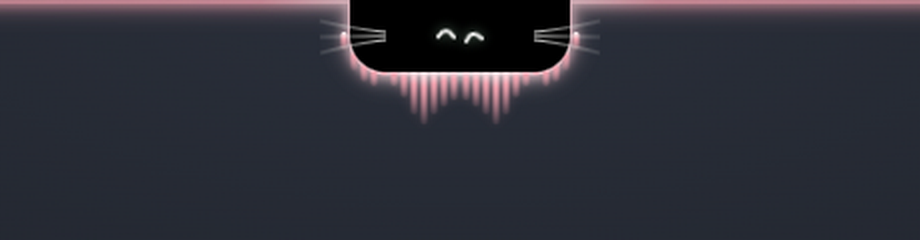
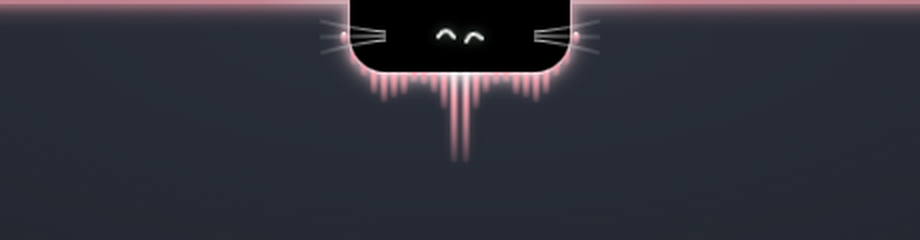
Show the white edge and the mouse voice key in the README

diff --git a/README.md b/README.md
@@ -17,11 +17,11 @@ The cat is drawn after my real cat Nikki.
 | | |
 |---|---|
 | **Claude Code** | Start tasks per project, see live status and steps, answer permission requests (Allow / Always / Deny), questions and plans. Works for Claude Code sessions in your terminal too, through hooks. Plan limits shown as two rings. |
-| **Closed notch** | Only Nikki's eyes. A thin light edge says what is going on: yellow needs you, green works or is done, red error, the cover's colour for music, a white sweep for a new notification. A spectrum from the real audio grows under the notch. |
+| **Closed notch** | Only Nikki's eyes and whiskers, inside a thin white edge. The edge takes a colour when something happens: yellow needs you, green works or is done, red error, the cover's colour for music, a white sweep for a new notification. A spectrum from the real audio grows under the notch. |
 | **Music** | Whatever Windows plays (Spotify, browser, …): cover, controls, volume, and the line being sung (synced lyrics from [LRCLIB](https://lrclib.net), off by default). |
 | **Notifications** | Notifications from other apps, collected in the island. Off by default, kept in memory only. |
 | **Modules** | Calendar with reminders, to-do, notes, Pomodoro timer, file shelf, clipboard history, Discord voice channel. Each one can be switched off. |
-| **Voice** | Hold a key and speak, recognised locally with whisper.cpp. "Hey Nikki, …" sends it to Claude (commands are German). |
+| **Voice** | Hold a key or a mouse button (middle or side) and speak, recognised locally with whisper.cpp. "Hey Nikki, …" sends it to Claude (commands are German). |
 | **Language** | English or German, or whatever Windows uses. Switches at once, no restart. |
 
 ## A closer look
@@ -98,7 +98,7 @@ Nikki is going to become an iOS app as well. The iPhone already has its notch, t
 
 Notch-App für Windows mit Claude-Code-Begleiter: die kleine Katze oben am Bildschirmrand. Sie startet und begleitet Claude-Code-Aufgaben in deinem Projektordner über deine lokal eingeloggte **Claude Code**-CLI, **ohne API-Key**, und bringt dazu Notch-Module wie Kalender, To-do, Notizen und Timer mit.
 
-Zugeklappt zeigt die Insel nur Nikkis Augen. Was los ist, zeigt eine schmale Lichtkante um die Notch: gelb braucht dich, grün arbeitet oder ist fertig, rot ist ein Fehler, bei Musik leuchtet sie in der Farbe des Covers, und eine neue Mitteilung streift einmal weiß darüber. Aufgeklappt gibt es Home („Heute“: Claude, Musik, Wetter, Kalender), den Chat und die Module.
+Zugeklappt zeigt die Insel nur Nikkis Augen und Schnurrhaare, rundherum eine schmale weiße Kante. Passiert etwas, färbt sie sich: gelb braucht dich, grün arbeitet oder ist fertig, rot ist ein Fehler, bei Musik leuchtet sie in der Farbe des Covers, und eine neue Mitteilung streift einmal weiß darüber. Aufgeklappt gibt es Home („Heute“: Claude, Musik, Wetter, Kalender), den Chat und die Module.
 
 - Claude Code starten, mit Live-Status, Schritten und Antworten in der Insel
 - Berechtigungen, Fragen und Pläne beantworten (Erlauben / Immer / Ablehnen), auch für Claude-Code-Sessions im Terminal
@@ -106,7 +106,7 @@ Zugeklappt zeigt die Insel nur Nikkis Augen. Was los ist, zeigt eine schmale Lic
 - Musik mit Cover, Steuerung, Lautstärke und der gerade gesungenen Zeile (Songtexte von lrclib.net, standardmäßig aus)
 - Mitteilungen anderer Apps in der Insel (standardmäßig aus, nur im Speicher)
 - Module: Kalender, To-do, Notizen, Timer, Ablage, Zwischenablage, Discord, einzeln schaltbar
-- Spracheingabe, lokal erkannt. Befehle beginnen mit „Hey Nikki“
+- Spracheingabe, lokal erkannt, per Taste oder Maustaste (Mitte oder Seite). Befehle beginnen mit „Hey Nikki“
 - Bei Spiel oder Video im Vollbild geht Nikki aus dem Weg
 - Oberfläche auf Deutsch oder Englisch (Einstellungen › Allgemein), ohne Neustart
 
